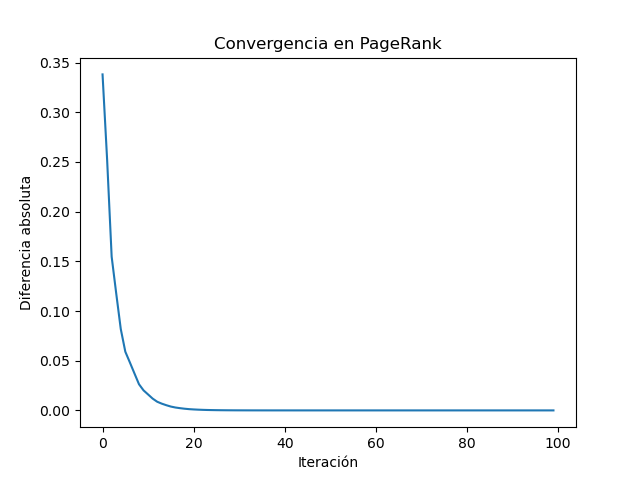
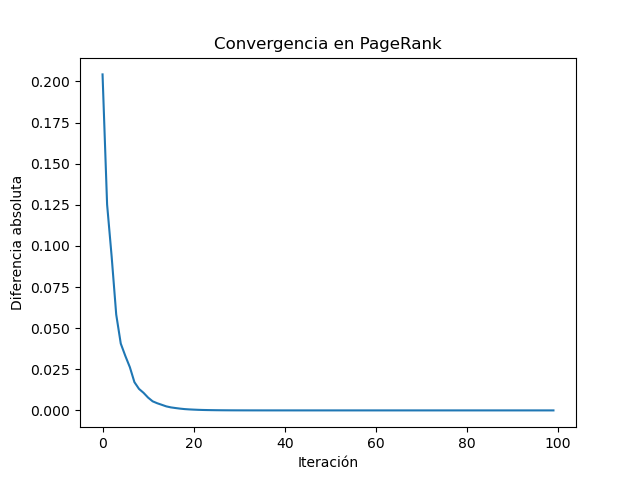
el 4 corre

diff --git a/ejercicio4.py b/ejercicio4.py
@@ -10,12 +10,12 @@ for fila in archivo_citas:
     fila = fila.split(',')
     if fila[0] != 'from':
 
-        W[int(fila[1])-1,int(fila[0])-1] = 1
+        W[int(fila[1]),int(fila[0])] = 1
 
-        if D[int(fila[0])-1,int(fila[0])-1]:
-            D[int(fila[0])-1,int(fila[0])-1] += 1
+        if D[int(fila[0]),int(fila[0])]:
+            D[int(fila[0]),int(fila[0])] += 1
         else:
-            D[int(fila[0])-1,int(fila[0])-1] = 1
+            D[int(fila[0]),int(fila[0])] = 1
 
 print("sali del primer ciclo")
 archivo_citas.close()
@@ -35,7 +35,7 @@ print("sali del tercer ciclo")
 d = 0.85
 dif_abs = 1e16
 dif_abs_prev = 0
-epsilon = 0.0005
+epsilon = 1e-4
 
 k = ((1-d)/629814)*vector_unos
 print("hice k")
@@ -44,12 +44,17 @@ print("hice s")
 i=0
 while math.sqrt(dif_abs) > epsilon:
     p_estrella_prev = p_estrella_it
+    print("1")
     p_estrella_it = k + s@p_estrella_it
-    temp = p_estrella_it - p_estrella_prev
+    print("2")
     dif_abs=0
     for i in range(629814):
-        dif_abs+=(temp[i,0])**2
-    
+        temp = p_estrella_it[i,0] - p_estrella_prev[i,0]
+        dif_abs+=temp**2
+           
+#print(p_estrella_it[327827,0])
+#print(p_estrella_it[81323,0])  
+
 
 
     

diff --git a/matricesRalas.py b/matricesRalas.py
@@ -198,8 +198,9 @@ class MatrizRala:
         # Esta funcion implementa la resta de matrices (pueden usar suma y producto) -> A - B
         if self.shape != other.shape:
             raise Exception('Las matrices deben tener las mismas dimensiones')
-        
-        return self+(-1)*other
+        matSub = MatrizRala(self.shape[0], self.shape[1])
+        matSub = self+(-1)*other
+        return matSub
         
     def __matmul__( self, other ):
         # Esta funcion implementa el producto matricial (notado en Python con el operador "@" ) -> A @ B

diff --git a/ejercicio3.py b/ejercicio3.py
@@ -1,3 +1,4 @@
+import math
 import matplotlib.pyplot as plt
 from matricesRalas import *
 
@@ -48,8 +49,8 @@ for i in range(t):
     p_estrella_it  =  ((1-d)/11)*vector_unos + d*W@D@p_estrella_it
     delta = 0
     for j in range(p_estrella.shape[0]):
-        delta += abs(p_estrella_it[j,0] - p_estrella[j,0])   
-    diferencias_abs.append(delta)
+        delta += (p_estrella_it[j,0] - p_estrella[j,0])**2   
+    diferencias_abs.append(math.sqrt(delta))
 
 plt.plot(range(t), diferencias_abs)
 plt.xlabel('Iteración')

diff --git a/tests.py b/tests.py
@@ -69,7 +69,7 @@ class TestRestaMatrices:
         with pytest.raises(Exception) as e_info:
             C = A - B
     
-    def test_sumaCorrectamente( self ):
+    def test_restaCorrectamente( self ):
         
         A = MatrizRala(3,3)
         B = MatrizRala(3,3)
